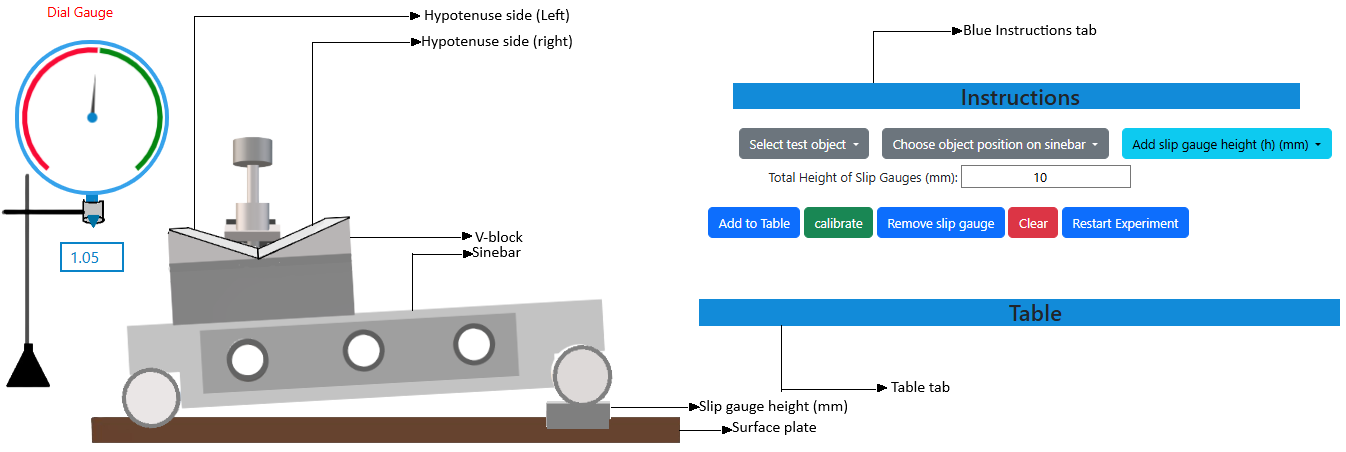
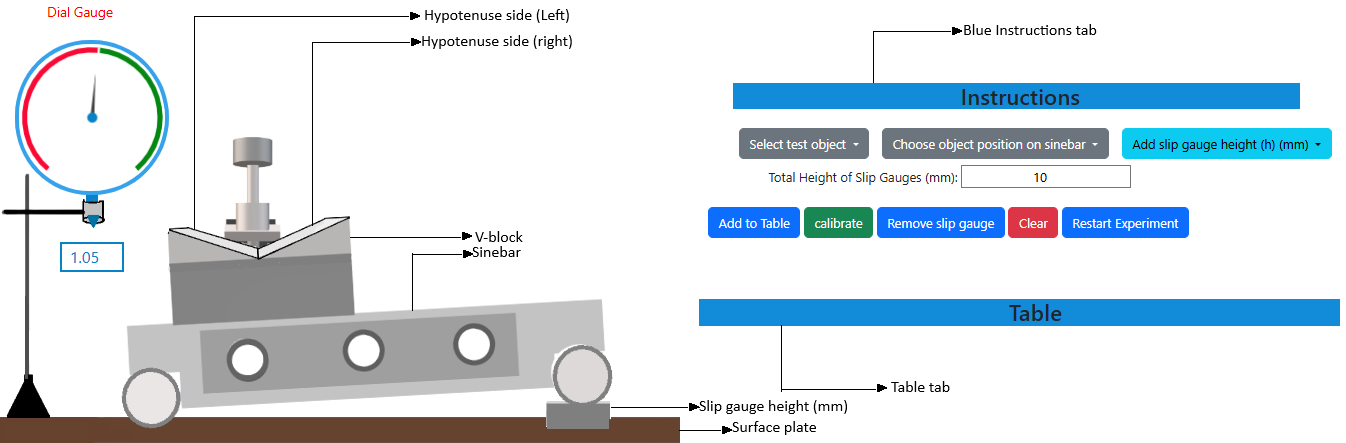
sf1

diff --git a/experiment/simulation/js/sinebar.js b/experiment/simulation/js/sinebar.js
@@ -59,7 +59,8 @@ function MoveobjR(){
 	document.getElementById('dstand').style.left = 93 +"%";
 	document.getElementById('dial').style.left = 90 +"%";
 	document.getElementById('dholder').style.left = 79 +"%";
-	document.getElementById('dholder').style.top = -34 +"%";
+	document.getElementById('dholder').style.top = -36 +"%";
+	document.getElementById('dholder').style.height = 84 +"%";
 	document.getElementById('pspan').style.left = 85 +"%";
 	
 	document.getElementById('cb').style.top = -75 +"%";
@@ -83,13 +84,14 @@ function MoveobjL(){
 	document.getElementById('dstand').style.left = 5 +"%";
 	document.getElementById('dial').style.left = 1 +"%";
 	document.getElementById('dholder').style.left = -8.8 +"%";
-	document.getElementById('dholder').style.top = -30.5 +"%";
+	document.getElementById('dholder').style.top = -34 +"%";
+	document.getElementById('dholder').style.height = 82 +"%";
 	document.getElementById('pspan').style.left = -1 +"%";
 	
 	document.getElementById('cb').style.top = -75 +"%";
 	document.getElementById('dstand').style.top = -29 +"%";
 	document.getElementById('pspan').style.top = -84 +"%";
-	document.getElementById('dholder').style.zIndex= 4;
+	document.getElementById('dholder').style.zIndex= -1;
 	}
 }
 

diff --git a/experiment/simulation/css/sinebar.css b/experiment/simulation/css/sinebar.css
@@ -15,6 +15,12 @@
     width: 35%;	
 }
 
+#cb{
+position: absolute;
+    left: -6%;
+    top: -75%;	
+}
+
 #slipgauge {
     position: absolute;
     left: 77%;
@@ -40,6 +46,24 @@
     height: 63%;
     z-index: 5;
 }
+#b2 {
+    position: absolute;
+    left: -14.8%;
+    top: 46%;
+    width: 29%;
+     height: 8%;
+    /*z-index: 2; */
+
+}
+#b3 {
+    position: absolute;
+    left: 77.2%;
+    top: 46%;
+    width: 29%;
+     height: 8%;
+    /*z-index: 2; */
+
+}
 #bar {
     position: absolute;
     left: 9.2%;
@@ -63,11 +87,11 @@
 #dholder {
     position: absolute;
     left: -8.8%;
-    top: -30.5%;
+    top: -34%;
     width: 17%;
-    height: 69%;
+    height: 82%;
     /* opacity: 0.6; */
-    z-index: 4;
+    z-index: -1;
 }
 
 #chart_div{
@@ -94,7 +118,7 @@ position: absolute;
 	
 position: absolute;
     left: -1%;
-    top: -80%;
+    top: -84%;
     width: auto;
     color: red;
     font-size: 1vw;
@@ -104,7 +128,7 @@ position: absolute;
 	
 position: absolute;
     left: 5%;
-    top: -23%;
+    top: -29%;
     width: 2%;
     height: 9%;
     background-color: #0983C8;

diff --git a/experiment/simulation/index.html b/experiment/simulation/index.html
@@ -178,7 +178,8 @@
 			<img class="img-fluid" id = "dholder" src="./images/dholder.png" >
 			<input type="number" id="dial" value="" readonly=readonly><p id="pspan">Dial Gauge</p>
 			
-			
+			<img class="img-fluid" id = "b2" src="./images/b2.png" >
+			<img class="img-fluid" id = "b3" src="./images/b2.png" >
 			<img class="img-fluid" id = "bar" src="./images/bar2.png" >
 			<img class="img-fluid" id = "holder" src="./images/holder.png">
 			<img class="img-fluid" id = "obj" src="./images/testobj2.png">

diff --git a/experiment/theory.md b/experiment/theory.md
@@ -1,11 +1,12 @@
 ## Theory
 
- A sine bar is a type of precision measuring tool used for accurate measurement of angles and, in particular, for inspecting the taper of workpieces. The idea behind a sine bar is based on trigonometry, where the precise taper angle can be calculated from the sine of the angle created between the sine bar and the workpiece. A sine bar is used in conjunction with slip gauge blocks for precise angular measurements. A sine bar is used either to measure an angle with great accuracy or to set any workpiece to a specific angle. Sine bars are made from high-chromium, corrosion-resistant steel and are hardened, precision-ground, and stabilized. Two cylinders of equal diameter are placed at the ends of the bar. The axes of these two cylinders are mutually parallel to each other and are also parallel to, and at equal distance from, the upper surface of the sine bar. A dial gauge serves as an essential instrument for assessing slight variations from flatness during the measurement of taper with the aid of a sine bar. Accuracy up to 0.01 mm/m of the length of the sine bar can be attained. The origins of inaccuracies in a sine bar may stem from imperfections in the surface plate, wear on the sine bar, discrepancies in slip gauges, and challenges in achieving proper levelling during the experimental procedure. The Sine bar is frequently employed in the manufacturing and engineering sectors for the precise measurement of tapers, serving as a critical tool in quality control processes. A basic schematic diagram of a sine bar is presented in Fig. 1.
+A sine bar is a type of precision measuring tool used for accurate measurement of angles and, in particular, for inspecting the taper of workpieces. The idea behind a sine bar is based on trigonometry, where the precise taper angle can be calculated from the sine of the angle created between the sine bar and the workpiece. A sine bar is used in conjunction with slip gauge blocks for precise angular measurements. A sine bar is used either to measure an angle with great accuracy or to set any workpiece to a specific angle. Sine bars are made from high-chromium, corrosion-resistant steel and are hardened, precision-ground, and stabilized. Two cylinders of equal diameter are placed at the ends of the bar. The axes of these two cylinders are mutually parallel to each other and are also parallel to, and at equal distance from, the upper surface of the sine bar. A dial gauge serves as an essential instrument for assessing slight variations from flatness during the measurement of taper with the aid of a sine bar. Accuracy up to 0.01 mm/m of the length of the sine bar can be attained. The origins of inaccuracies in a sine bar may stem from imperfections in the surface plate, wear on the sine bar, discrepancies in slip gauges, and challenges in achieving proper levelling during the experimental procedure. The Sine bar is frequently employed in the manufacturing and engineering sectors for the precise measurement of tapers, serving as a critical tool in quality control processes. A basic schematic diagram of a sine bar is presented in Fig. 1.
 
  <div align="center">
 <img class="img-fluid"  src="./images/fig1.png" alt="">
 
 <b>Fig. 1. Isometric view of the sine bar [Ref. 1 (website and NPTEL Lecture)]</b>
+
 </div>  
  
  The sine bar forms the hypotenuse of a right triangle, while the slip gauge blocks form the opposite side, as illustrated in Fig. 2. The height of the slip gauge block is found by multiplying the sine of the desired angle by the length of the sine bar: 
@@ -26,20 +27,17 @@ Where:
 
 - <span style="font-family:'Bodoni MT';font-style:italic">L</span> is the distance between the centers of the sine bar's cylindrical surfaces.
 
-2. Workpiece Clamping: To measure the taper of a workpiece using a sine bar, the workpiece is securely clamped at the center of the sine bar, ensuring that the taper to be measured rests on the flat surface of the sine bar.
+2. Workpiece Clamping: To measure the taper of a workpiece using a sine bar, the workpiece is securely clamped along the surface of the sine bar, ensuring that the taper to be measured rests on the flat surface of the sine bar.
 
-3. Height Adjustment: The sine bar needs to be set up so that its upper and lower ends are parallel to the workpiece's taper. This is achieved by placing various slip gauges of known length under one end of the sine bar. The height of these slip gauges is carefully chosen to ensure parallelism. The complete contact between the slip gauges is done by wringing. Wringing is done by hand by sliding and twisting motions.  One gauge is placed perpendicular to the other using standard gauging pressure, and then a rotary motion is applied until the blocks are lined up.  In this way air is expelled from between the gauge faces, causing the blocks to adhere.
+3. Height Adjustment: The sine bar needs to be set up so that its upper and lower ends are parallel to the workpiece's taper. This is achieved by placing various slip gauges of known length under one end of the sine bar. The height of these slip gauges is carefully chosen to ensure parallelism. The complete contact between the slip gauges is done by wringing. Wringing is done by hand by sliding and twisting motions. One gauge is placed perpendicular to the other using standard gauging pressure, and then a rotary motion is applied until the blocks are lined up. In this way air is expelled from between the gauge faces, causing the blocks to adhere.
 
 <div align="center">
 <img class="img-fluid"  src="./images/img2.png" alt="">
 
 <b>Fig. 2. Measurement of angle by sine bar [Ref. 1 (Journal and Books)]</b>
+
 </div>
 
 In this experiment, we used a sine bar to gauge the taper of a workpiece.
 
-
-				
-
-						
-<script id="MathJax-script" async src="https://cdn.jsdelivr.net/npm/mathjax@3/es5/tex-mml-chtml.js"></script>								
+<script id="MathJax-script" async src="https://cdn.jsdelivr.net/npm/mathjax@3/es5/tex-mml-chtml.js"></script>
